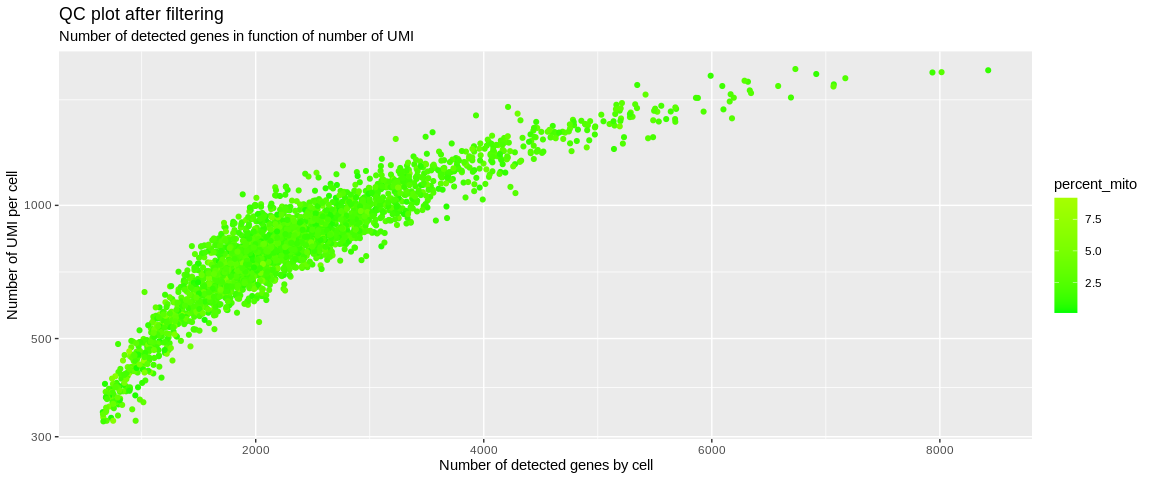
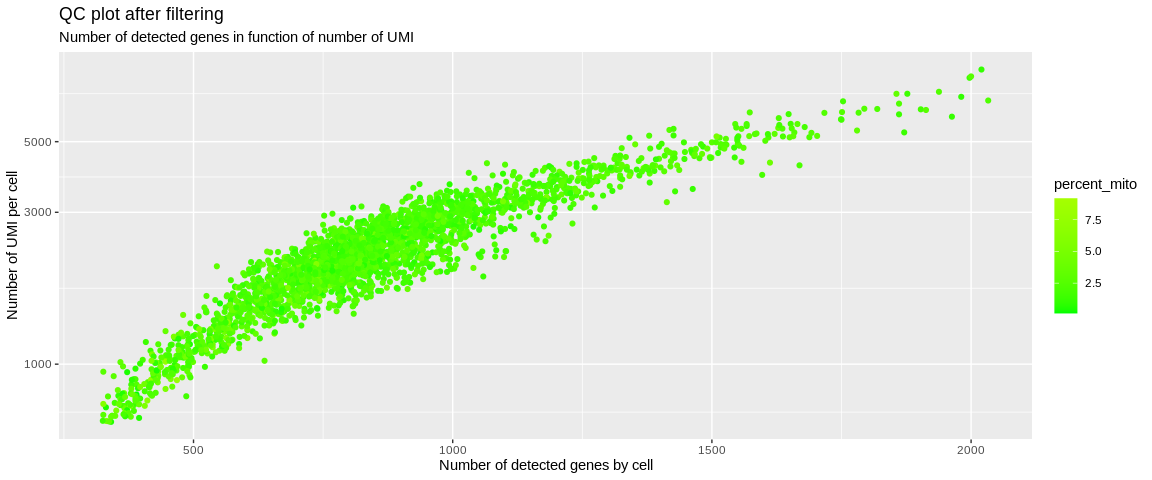
fix error in figure post filtration preprocessing

diff --git a/docs/scRNAseq_basics/preprocessing.md b/docs/scRNAseq_basics/preprocessing.md
@@ -137,10 +137,10 @@ pbmc_small <- subset(pbmc_small,
                      (nFeature_RNA > 300 & nFeature_RNA < 2300))
 
 ## Plot
-ggplot(pbmc_small@meta.data,
-               aes(x = nCount_RNA,
-                   y = nFeature_RNA,
-                   color = percent_mito)) +
+ggplot(pbmc_small@meta.data, 
+       aes(x = nFeature_RNA,
+           y = nCount_RNA,
+           color = percent_mito)) +
   geom_point() +
   scale_y_log10() +
   scale_color_gradient2(low = "green",
